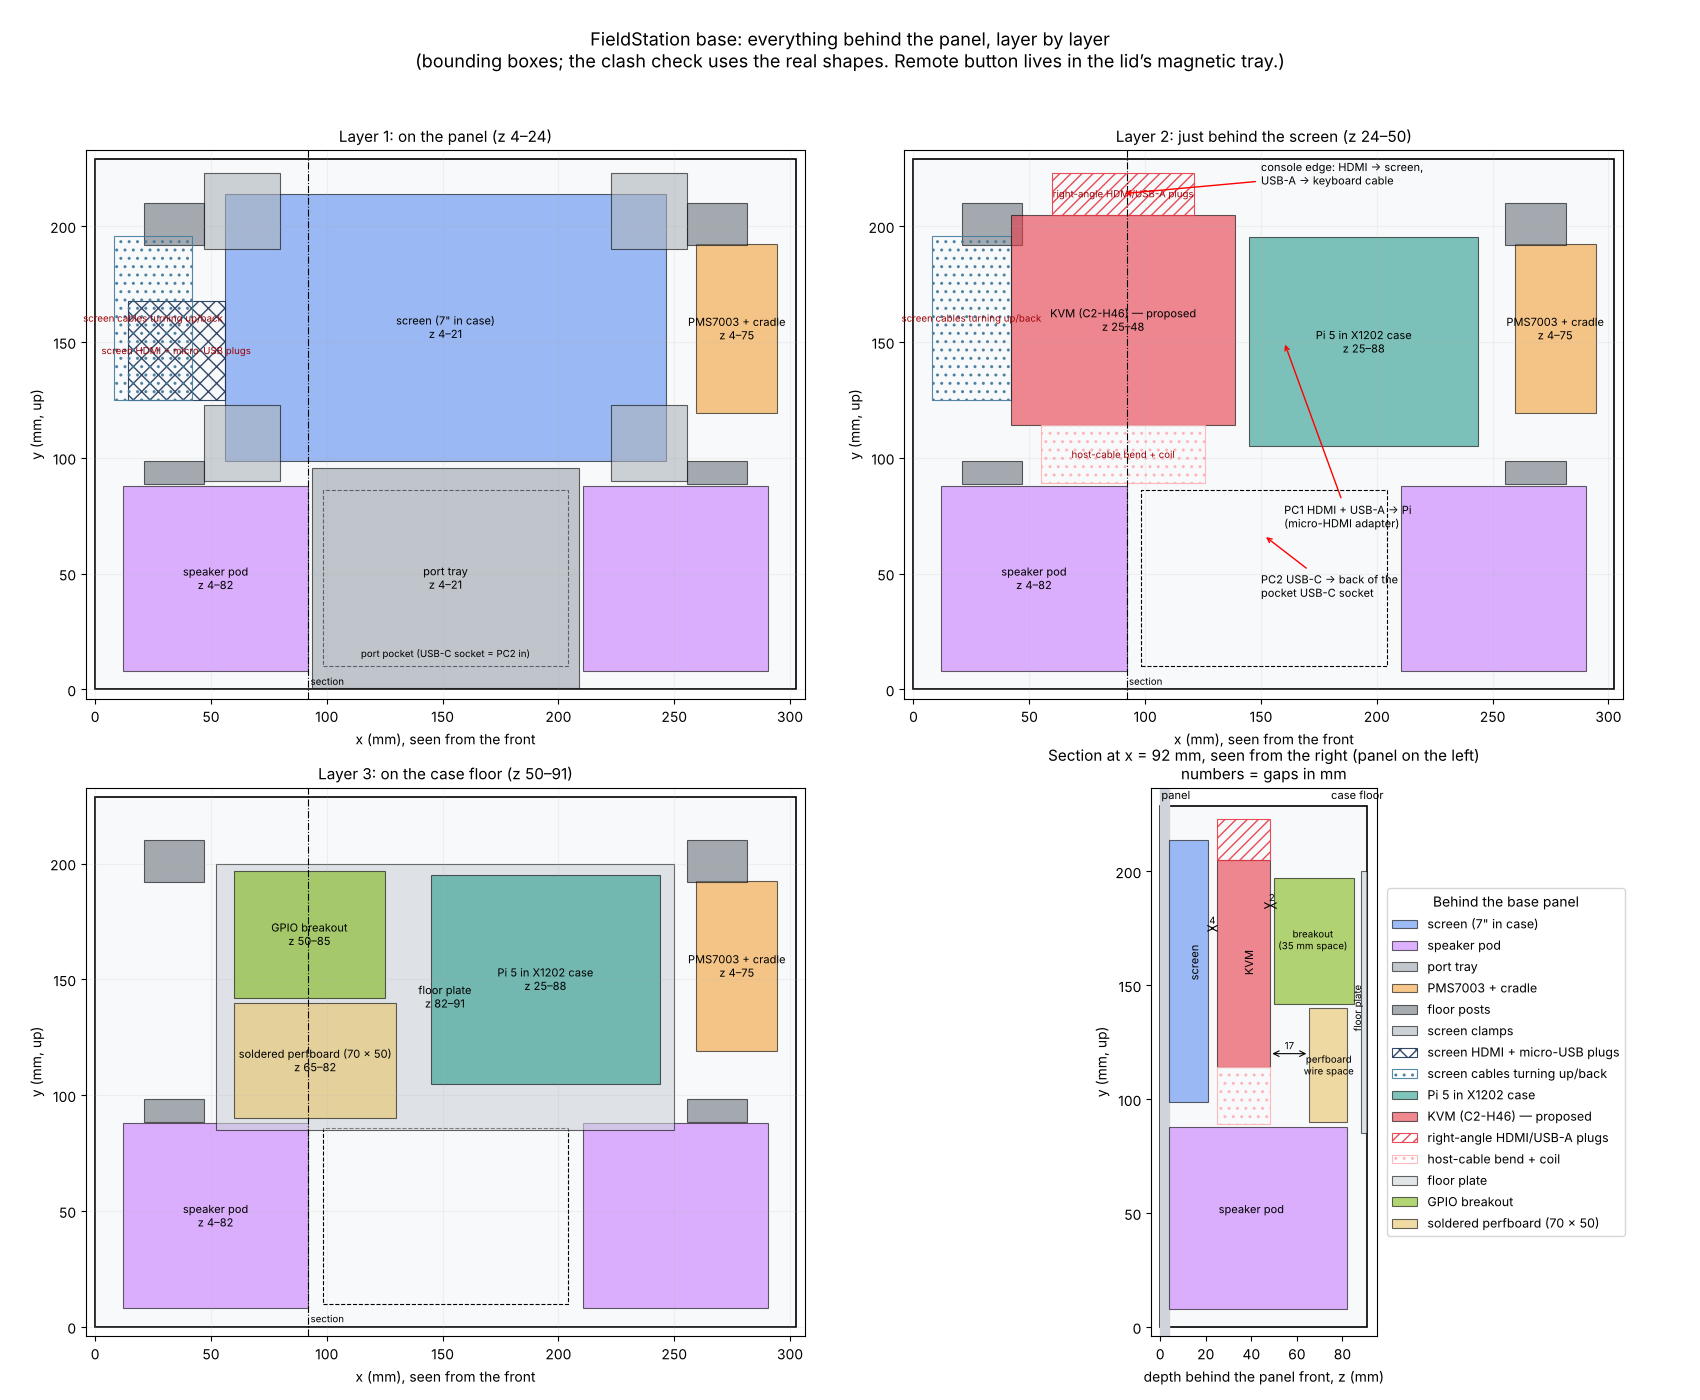
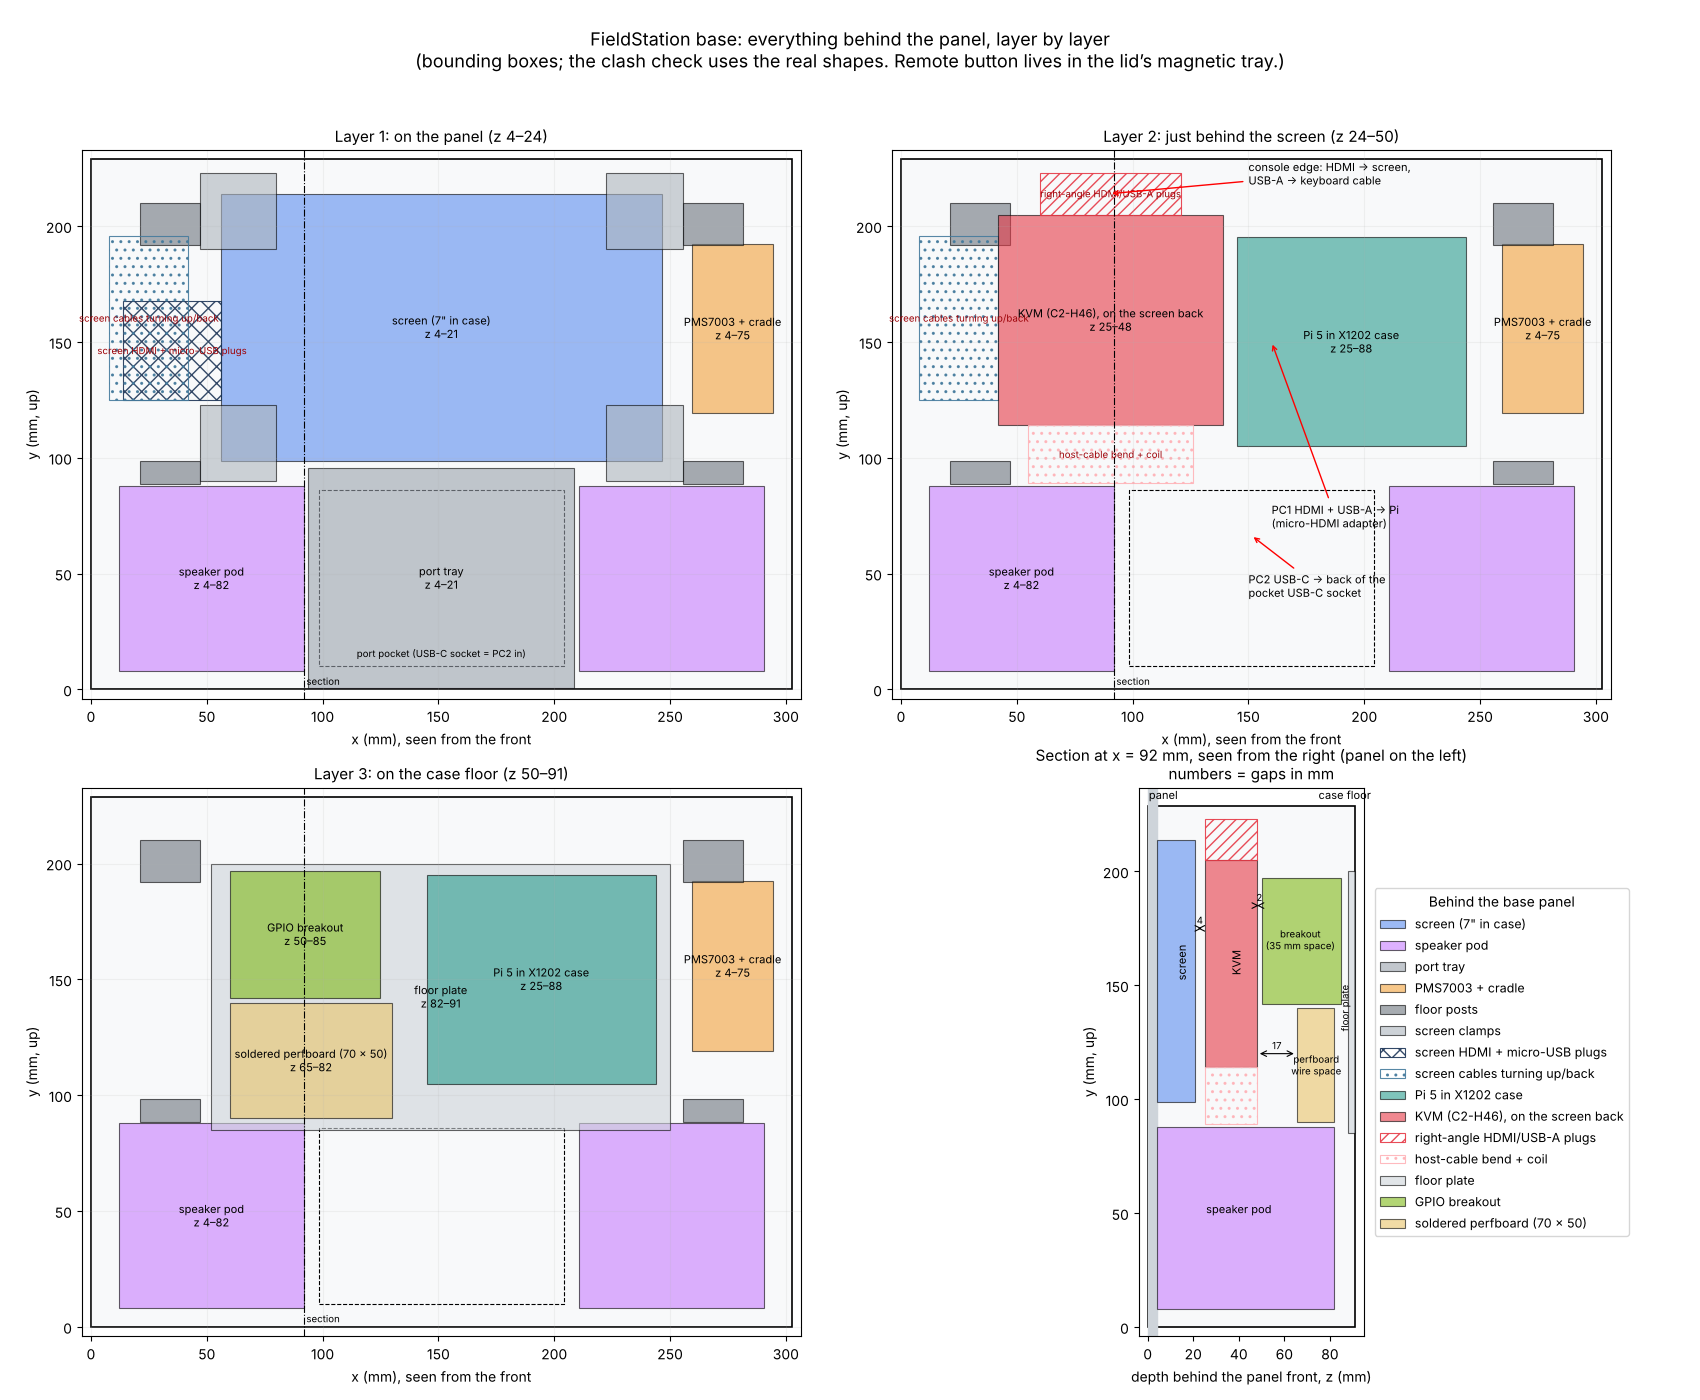
Mount the KVM on the back of the screen with a 2 mm spacer
VHB + 2 mm printed spacer + VHB puts the KVM at the modelled 25 mm depth,
clear of the top-left screen clamp. Spacer added to plate B5; assembly
note 7 covers placement. 0 clashes.

Claude-Session: https://claude.ai/code/session_015Mjdpdd6ef1wmGCnczCrjc

diff --git a/hardware/src/build_all.py b/hardware/src/build_all.py
@@ -25,6 +25,7 @@ clamp=C['c'].mirror([0,0,1]).translate([0,0,C['H']])
 for i in range(1,5): parts[f'screen_clamp_{i}']=tm(clamp)
 parts['pms7003_cradle']=tm(S['body'].mirror([1,0,0]))   # mirrored: board side faces the screen
 parts['panel_splice']=tm(Manifold.cube([40,10,2]))
+parts['kvm_spacer']=tm(Manifold.cube([60,60,2.0]))   # VHB both sides: KVM to the back of the screen
 FPm=ns('floorplate.py'); parts['floor_plate']=tm(FPm['build_floor_plate']().mirror([0,0,1]))   # glued face down
 for s in ('L','R'):
     parts['stand_plate_'+s]=tm(K['plate'])
@@ -75,4 +76,4 @@ plate('speaker_pods_complete_x2.3mf',[('pod_body_L',c-85,c+5,0),('pod_body_R',c+
 plate('B3a_port_tray_and_sensor.3mf',[('port_tray',M+20,M+60,0),('pms7003_cradle',M+20+w('port_tray')+25,M+60,0)])
 
 # floor plate on its own (Pi pocket, perfboard bosses; breakout bosses to come)
-plate('B5_floor_plate.3mf',[('floor_plate',28,70,0)])
+plate('B5_floor_plate.3mf',[('floor_plate',28,70,0),('kvm_spacer',28,4,0)])

diff --git a/hardware/src/check.py b/hardware/src/check.py
@@ -20,6 +20,8 @@ parts['air']=_mv(_air)
 # screen plugs on its left edge (measured from a photo): micro-USB 30-39 mm and HDMI 47-65 mm up from the
 # screen's bottom edge, ~40 mm long straight plugs, then the cables turn up/back beside the screen
 parts['screen_plugs']=box(SC_X0-42,SC_Y0+26,T+1,SC_X0,SC_Y0+69,T+SC_T)+box(SC_X0-48,SC_Y0+26,T+SC_T,SC_X0-14,SC_Y0+97,T+44)
+# KVM is stuck to the back of the screen: VHB 1.1 + 2 mm printed spacer + VHB 1.1 brings it to z 25, clear of the clamps (to z 23.7)
+parts['kvm_spacer']=box(67,125,T+SC_T+1.1,127,185,T+SC_T+3.1)
 parts['kvm']=box(42,114,25,139,205,48)+box(60,205,25,121,223,48)+box(55,89,25,126,114,48)   # body, right-angle console plugs, host-cable bend
 for n in POSTS: parts['post'+n]=build_post(n).mirror([0,0,1]).translate([0,0,FLOOR_Z-VHB])
 # Pi case on floor, right half behind screen; breakout + 70 x 50 soldered perfboard left half

diff --git a/hardware/src/layout_sheet.py b/hardware/src/layout_sheet.py
@@ -24,7 +24,7 @@ for i,(cx,cy,sx,sy) in enumerate(cl):
 items.append(('screen HDMI + micro-USB plugs',[SC_X0-42,SC_Y0+26,T+1,SC_X0,SC_Y0+69,T+SC_T],'#1d3557','xx'))
 items.append(('screen cables turning up/back',[SC_X0-48,SC_Y0+26,T+SC_T,SC_X0-14,SC_Y0+97,T+44],'#457b9d','..'))
 KVM=[42,114,25,139,205,48]
-items.append(('KVM (C2-H46) — proposed',KVM,'#e63946',None))
+items.append(('KVM (C2-H46), on the screen back',KVM,'#e63946',None))
 items.append(('right-angle HDMI/USB-A plugs',[60,205,25,121,223,48],'#e63946','///'))
 items.append(('host-cable bend + coil',[55,89,25,126,114,48],'#ffb3b8','..'))
 

diff --git a/hardware/README.md b/hardware/README.md
@@ -31,7 +31,7 @@ Bambu Studio 3MF plates for a Bambu Lab P1S (256 mm bed). Every part is already 
 | B3 | Port tray, four floor posts, four screen clamps, PMS7003 cradle |
 | B3a | Port tray and PMS7003 cradle (the same parts as on B3, for printing them first) |
 | B4 | Two kickstand hinge plates and legs |
-| B5 | Floor plate: Pi case pocket, insert bosses for the perfboard and the GPIO breakout |
+| B5 | Floor plate: Pi case pocket, insert bosses for the perfboard and the GPIO breakout; 60 × 60 × 2 mm KVM spacer |
 | speaker_pods_complete_x2 | Both complete pods (bodies and baffles) on one plate, if you print the pods separately from B1/B2 |
 
 The KVM remote button lives in the lid's magnetic tray; its cable runs through the keyboard cable slots. The PMS7003 cradle on B3/B3a is printed mirrored so its board side faces the screen.
@@ -61,7 +61,8 @@ The KVM remote button lives in the lid's magnetic tray; its cable runs through t
 4. **Panels.** Dry-fit the dovetails, then epoxy the halves face down on a flat surface. Glue the splice strip behind the base-panel seam above the window.
 5. **Lid.** The cradle halves can be dry-fitted. Screw the overlay onto the cradle, drop the assembly into the lid so the overlay centres it, then fix it with VHB (or Dual Lock if you want it removable). The roughly 6 mm gap around the cradle is intentional; it clears the lid's tapered walls and curved floor edge.
 6. **PMS7003 sensor.** Fit the adapter board and Dupont plugs first. The cradle is built for the board lying on the label face (3.5 mm above it), overhanging the inlet face by 6.5 mm and the board end by 9 mm, with the plugs mid-thickness in front of the inlet face, pointing at the panel. The front of the cradle has two chambers split by a rib: the outlet chamber, and an inlet chamber that also holds the plugs. Drop the sensor in from the back, face first, with the board on the side where the sleeve wall is open, feeding the wires out through the slot in the inlet chamber's end wall. Hold it in with a cable tie round the sleeve and over the sensor's back, between the guide ridges. Then seal it so it only breathes through the louvres: foam gasket round the lip, and foam or putty in the wire slot and the small notch where the header pins pass. See [docs/pms7003_cradle.png](docs/pms7003_cradle.png).
-7. **Kickstands.** Glue the hinge plates to flat areas about 100 mm up the back of the case.
+7. **KVM.** Stick the 2 mm spacer (B5) to the back of the screen case with VHB, centred about 40 mm in from the screen's left edge and 50 mm down from its top, then stick the KVM onto it with its console edge (HDMI, USB-A) facing the top of the case and its built-in cables facing down. The spacer lifts it clear of the top-left screen clamp. Use right-angle HDMI and USB-A plugs on the console side, and coil the spare host cable over the perfboard, not the breakout. See [docs/internal_layout.png](docs/internal_layout.png).
+8. **Kickstands.** Glue the hinge plates to flat areas about 100 mm up the back of the case.
 
 ## Source (`src/`)
 
@@ -91,5 +92,4 @@ The case interior dimensions come from measurements of the real Peli 1400: 99 mm
 
 ## Still to do
 
-- KVM (StarTech C2-H46-UAC-CBL-KVM): mount behind the left half of the screen (see docs/internal_layout.png); needs a photo of the screen case's back. Needs right-angle HDMI and USB-A plugs on its console side.
 - Confirm the D-size USB socket screw spacing (19 × 24 mm assumed) before printing the port tray.
